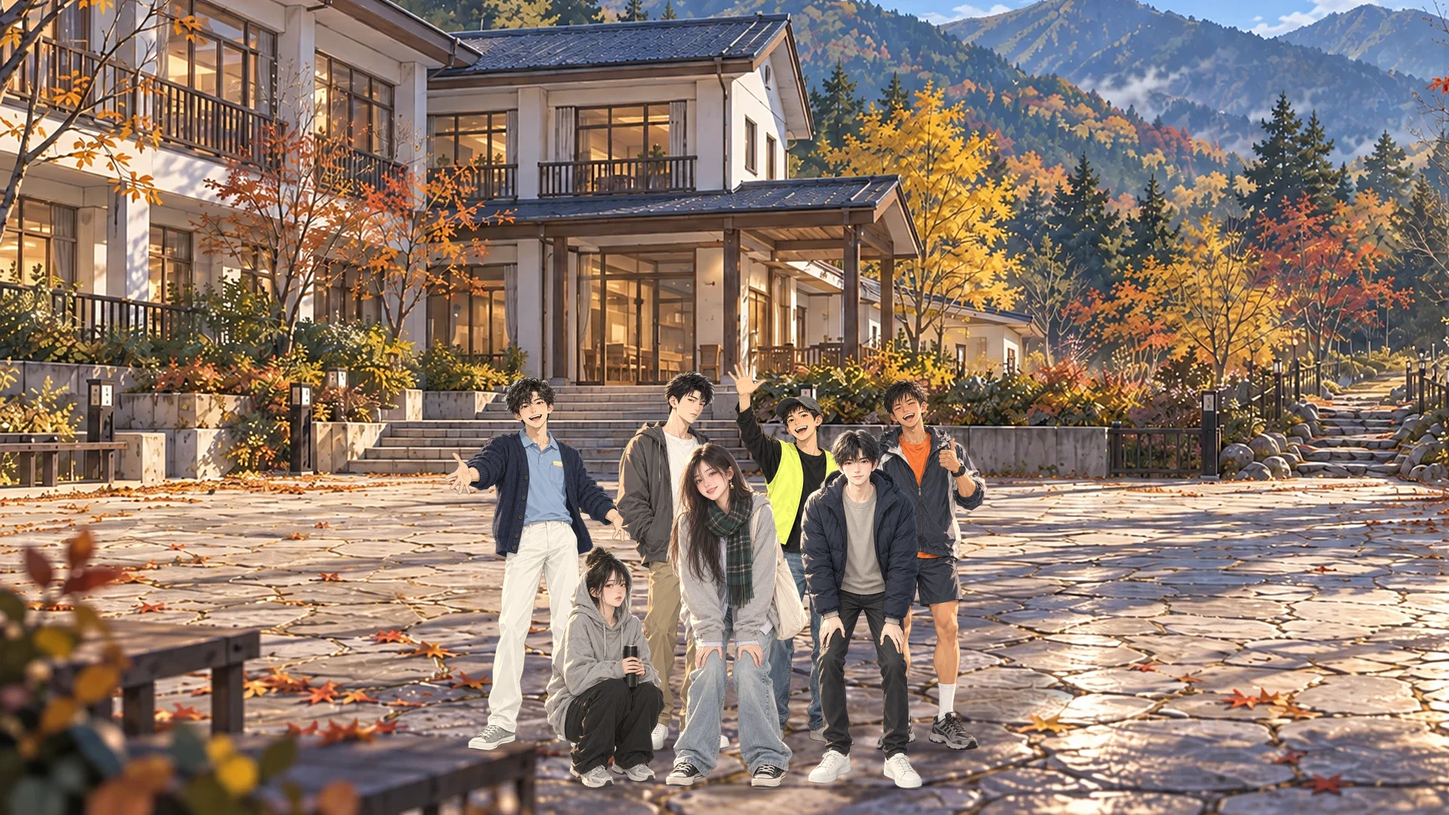
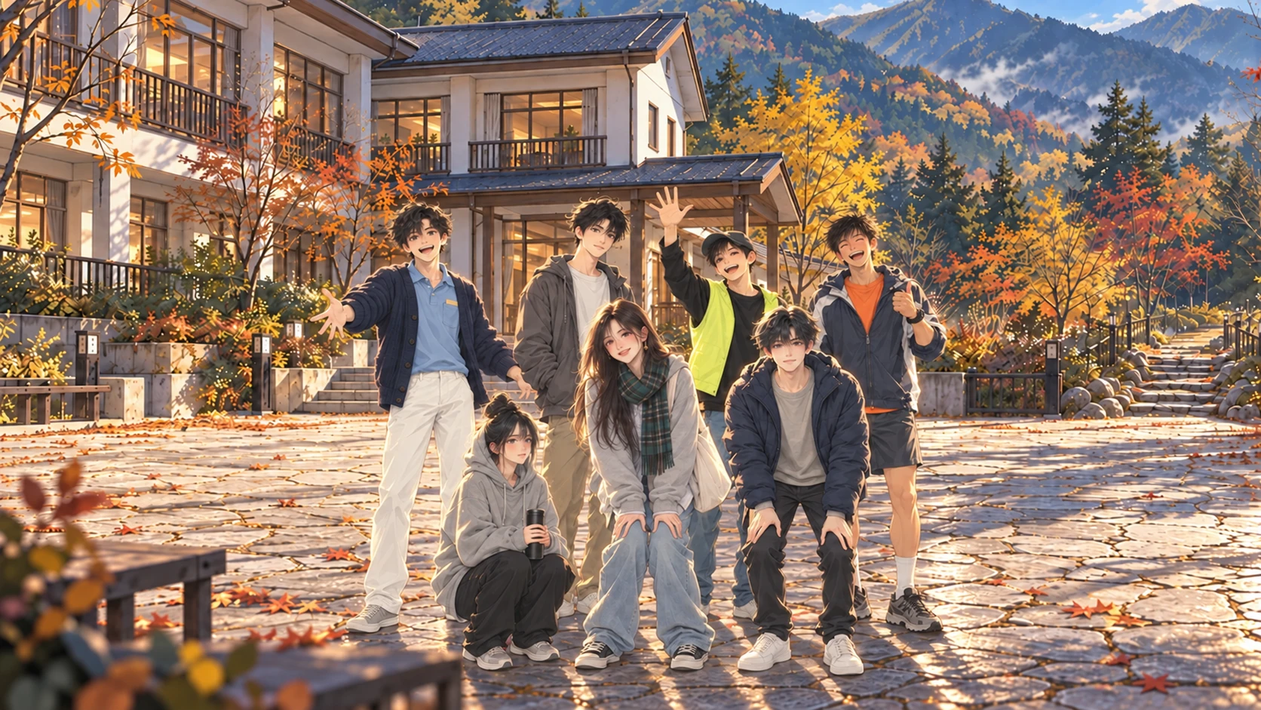
v0 段A 修正：工具誤套的台詞改回、E02 照段A重寫、E01／P1 人工列、魏老師第一堂、宿營 CG 換統一光線版
- 自動套用工具把「（刪；…）」說明和「／」分句當成台詞寫進去（5 處）：照 AA 原則改成旁白或刪除；工具過濾補強（帶說明的刪除、／、建議旁白一律人工）
- ev_y0_e02 照 BB_179 段A 新順序重寫（只講名字和從哪裡來、祐廷「{name}，臺北。」、可昕的名詞、散場旁白、412 三句）
- E01：刪「成功率大概三成」「危險的室友」，②後加旁白「（他好像本來想自己講完。）」；E01_BOXES、P1_SKIP 照 AA_200 7-2
- P1_LINES 刪韋綸、品妤兩句（段A #25 #26）
- 經原第 1 週魏老師順口講邊際效用遞減（AA_200 7-2）；經原 specials 改第 14、15 週（syllabus 16 週制）
- cg_econ_camp 換 BB-B ddae6f9c 統一光線版（1672×941）
- 單元測試 253 項全過（之後改的 e01／p1／e03 個別重跑通過）

Claude-Session: https://claude.ai/code/session_01DvRVNNnivf7da7qqWuGmw6

diff --git a/src/data/events.js b/src/data/events.js
@@ -1492,22 +1492,28 @@ const STORY_EVENTS=[
      用一個經濟學名詞介紹自己，記 E02_WORD（'externality'／'equilibrium'／'invisible_hand'；BB_106 SK08、SK14 讀）。家豪學長、韋綸、唐睿還沒有人物資料，先用名字說話。
      時段（AA-B 定案 A，268d529d）：9/2 週一上午是經濟學原理（照上、不停課），下課以後 12:15～17:00 自動，演完時間到 15:00、人在社科院門口 */
   { id:'ev_y0_e02', stage:'econ', title:'開學典禮與迎新', participants:['kexin'], location:'any', trigger:'auto', term:['Y0S1'], weeks:[1], weekday:[1], time:[12.25,17], once:true, priority:9, background:'dark',
-    dialogue:[ {scene:'社科院・大講堂｜開學典禮',bg:'soc_hall'},{speaker:null,text:'開學典禮在社科院的大講堂。前面坐的人，都穿得比平常整齊一點。'},{speaker:null,text:'典禮結束。門口有個學長舉著牌子：『經濟系新生，這邊。』'},{scene:'社科院・系上的教室｜迎新',bg:'soc_classroom'},   /* 兩句旁白：AA-B 定案（268d529d，AA_154）*/
-      {speaker:'家豪學長',text:'我是宋家豪，大二，今天帶你們這一組。／先輪一圈，講名字、從哪裡來就好。'},{speaker:'韋綸',text:'邱韋綸，台中來的。我到現在還搞不清楚哪一棟是哪一棟。'},
-      {speaker:'econ_pinyu',expression:'neutral',text:'曾品妤。'},{speaker:'唐睿',text:'（刪；只在旁白「一個一個輪下去」裡帶過）'},{speaker:'家豪學長',text:'唐睿，你才講了五秒。'},
-      {speaker:'kexin',expression:'neutral',text:'杜可昕。我是「邊際效用遞減」，早上經原老師講到的。'},{speaker:'kexin',expression:'neutral',text:'第一次見面最好玩，之後越來越普通。'},{speaker:'kexin',expression:'smile',text:'……開玩笑的。我會越來越好玩。'},
+    dialogue:[ {scene:'社科院・大講堂｜開學典禮',bg:'soc_hall'},{speaker:null,text:'開學典禮在社科院的大講堂。你坐在後面，旁邊的人在滑手機。'},{speaker:null,text:'典禮結束。門口有個學長舉著牌子：『經濟系新生，這邊。』'},{scene:'社科院・系上的教室｜迎新',bg:'soc_classroom'},   /* BB_179 段 A E02 重寫（AA_203 2-1：只講名字和從哪裡來，只有可昕用名詞）；旁白：AA_203 #1、AA_200 7-3 散場、BB 建議旁白全部採用（AA-B 01:34）；祐廷「{name}，臺北。」（AA_200 7-2）*/
+      {speaker:'家豪學長',text:'我是宋家豪，大二，今天帶你們這一組。'},{speaker:'家豪學長',text:'先輪一圈，講名字、從哪裡來就好。'},
+      {speaker:'韋綸',text:'邱韋綸，台中來的。我到現在還搞不清楚哪一棟是哪一棟。'},{speaker:'家豪學長',text:'等一下帶你們走一圈。'},
+      {speaker:'econ_pinyu',expression:'neutral',text:'曾品妤。'},{speaker:null,text:'（她講完就坐下了。下一個是你。）'},{speaker:'player',text:'{name}，臺北。'},
+      {speaker:null,text:'（一個一個輪下去。大部分的人講完名字和縣市就坐下。）'},
+      {speaker:'kexin',expression:'neutral',text:'杜可昕。我是「邊際效用遞減」，早上經原老師講到的。'},{speaker:'kexin',expression:'smile',text:'第一次見面最好玩，之後越來越普通。……不過我會越來越好玩啦。'},{speaker:null,text:'（有幾個人笑了。）'},
+      {speaker:'家豪學長',text:'好，差不多了。零食在前面，自己拿。'},{speaker:null,text:'（學長在前面發零食。可昕拿了一包，坐到你旁邊。）'},
+      {speaker:'kexin',expression:'neutral',text:'你剛剛只講名字喔？'},{speaker:'kexin',expression:'smile',text:'不然你也挑一個。'},
       {choice:[{text:'「我是『外部性』。我會影響到你們，但不用付錢。」',set:{E02_WORD:'externality'},goto:'ext'},{text:'「我是『均衡』。……我不知道為什麼。」',set:{E02_WORD:'equilibrium'},goto:'eq'},{text:'「我是『看不見的手』。」',set:{E02_WORD:'invisible_hand'},goto:'hand'}]},
-      {label:'ext'},{speaker:'kexin',expression:'teasing',text:'外部性還沒教欸。'},{goto:'end'},
-      {label:'eq'},{speaker:'kexin',expression:'teasing',text:'好，那你是均衡。'},{goto:'end'},
+      {label:'ext'},{speaker:'kexin',expression:'teasing',text:'外部性還沒教欸。'},{speaker:null,text:'（她翻開課本，在目錄找了一下。）'},{goto:'end'},
+      {label:'eq'},{speaker:'kexin',expression:'teasing',text:'好，那你是均衡。'},{speaker:null,text:'（她把零食撕開，分了你一半。）'},{goto:'end'},
       {label:'hand'},{speaker:'kexin',expression:'teasing',text:'亞當斯密那個。這個我高中有聽過。'},
-      {label:'end'} ],
+      {label:'end'},
+      {speaker:'韋綸',text:'（走過來）欸，{name}，你是 412 的吧？我早上去看過，床架上貼的名字有你。'},{speaker:'韋綸',text:'我也是！我晚上才搬進去。'},{speaker:'唐睿',text:'（從後面探頭）412？那我們同一間。我也是晚上。'},   /* 四人房（AA_208、BB_179 第 8 節）*/
+      {speaker:'家豪學長',text:'要走一圈的，跟我來！'},{speaker:null,text:'（可昕站起來，跟著大家往門口走。）'} ],
     consequences:{meet:['econ_pinyu']},
     after:(G,GM)=>{ if(G.hour%24<15) GM.advance(15-G.hour%24); if(G.zone!=='campus'&&GM.enter) GM.enter('campus',{x:97.0,z:-66.5,yaw:-Math.PI/2}); } },
   /* P2 下課後的一群人（BB_105 第 137 行；AA_154 第 101 行）：Y0S1 第 3～5 週週四，初等會計學下課（普通教學館門口的腳踏車停放區）；第一次（之後的 P2b 另做）。
      選公館＝接 ★E05（同一天）；選別的、今天先回去、沒去＝E05 在 9/20（五）傍晚照自己的觸發（ev_y0_e05 的 auto 條件）。韋綸、唐睿還沒有人物資料，先用名字說話 */
   { id:'ev_y0_p2', stage:'econ', title:'下課後的一群人', participants:['kexin'], location:'any', trigger:'class', afterClass:'acct_y0', term:['Y0S1'], weeks:[3,4,5], background:'blur',
     prereq:{custom:G=>!G.flags.P2_PICK||G.flags.P2_PICK==='home'},   /* 去成一次就不再演；「今天先回去」的玩家下一次會計課下課再演一次（BB_105 P2「那下次！」＝P2b 補上第一次聚會），到第 5 週為止 */
-    dialogue:[ {speaker:'韋綸',text:'走啦！'},{speaker:'econ_pinyu',expression:'neutral',text:'去哪？先說好，我只有一百五。'},{speaker:'唐睿',text:'（刪；建議旁白「唐睿在旁邊講電話，朝你們比了一個 OK。」）'},{speaker:'kexin',expression:'neutral',text:'（牽著腳踏車）你決定。'},
+    dialogue:[ {speaker:'韋綸',text:'走啦！'},{speaker:'econ_pinyu',expression:'neutral',text:'去哪？先說好，我只有一百五。'},{speaker:null,text:'（唐睿在旁邊講電話，朝你們比了一個 OK。）'},{speaker:'kexin',expression:'neutral',text:'（牽著腳踏車）你決定。'},
       {choice:[{text:'公館吃飯',set:{P2_PICK:'gongguan'},goto:'end'},{text:'河濱騎腳踏車',set:{P2_PICK:'river'},goto:'river'},{text:'總圖念書',set:{P2_PICK:'library'},goto:'lib'},{text:'「今天先回去。」',set:{P2_PICK:'home'},goto:'home'}]},
       {label:'river'},{speaker:null,text:'韋綸的鏈子掉了兩次。'},{speaker:'kexin',expression:'smile',text:'你那台要不要拿去修？我的也怪怪的，一起去。'},{goto:'end'},
       {label:'lib'},{speaker:null,text:'唐睿講了四十分鐘的話。'},{speaker:'econ_pinyu',expression:'neutral',text:'今天一頁都沒讀。'},{goto:'end'},
@@ -1534,7 +1540,7 @@ const STORY_EVENTS=[
       {speaker:null,text:'烤肉架是系學會借來的。炭還是黑的。'},
       {speaker:'韋綸',text:'誰要生火？'},
       {speaker:'econ_pinyu',text:'生火的人先吃。'},
-      {speaker:'唐睿',text:'（刪；建議旁白「唐睿已經在分肉了。」，可不加）'},
+      {speaker:null,text:'（唐睿已經在分肉了。）'},
       {choice:[{text:'「阿勳來。」',goto:'f1'},{text:'「韋綸來。」',goto:'f2'},{text:'「我來。」',goto:'f3'}]},
       {label:'f1'},{speaker:null,text:'阿勳擺了三塊炭，劃了一根火柴。火一次就起來了。'},{speaker:'econ_zhengxun',text:'熱力學。'},{speaker:'韋綸',text:'我帶了一整包報紙耶。'},{goto:'meat'},
       {label:'f2'},{speaker:null,text:'火起來的那一秒，韋綸的瀏海也捲起來了。'},{speaker:'韋綸',text:'沒事沒事！……有沒有人聞到頭髮的味道？'},{speaker:'econ_pinyu',text:'有。你先離火遠一點。'},{goto:'meat'},
@@ -1552,7 +1558,7 @@ const STORY_EVENTS=[
      劇社的即興（三個地點）→ 祐廷選社團（Y0_CLUB：guitar／hiking／badminton／none；BB_110 C2 讀它）→ 可昕的一句。沒去：可昕私訊（story3d.js）*/
   { id:'ev_y0_e07', stage:'econ', title:'社團博覽會', participants:['kexin'], location:'campus', near:{x:-3,z:14,r:20}, trigger:'auto', term:['Y0S1'], weeks:[3], weekday:[3,4,5], time:[10,17], once:true, background:'blur',
     dialogue:[ {speaker:'韋綸',text:'（手上已經有六張傳單）我每一攤都要看。'},
-      {speaker:'econ_pinyu',text:'（刪；建議旁白「品妤在看每一攤貼的社費。」）'},
+      {speaker:null,text:'（品妤在看每一攤貼的社費。）'},
       {speaker:'kexin',expression:'smile',text:'（從即興劇社的攤位探頭）你們過來，他們要演一段。'},
       {speaker:'劇社社員',text:'請給我們一個地點！'},
       {speaker:'kexin',expression:'neutral',text:'（看你）你說。'},
@@ -1578,7 +1584,7 @@ const STORY_EVENTS=[
       {choice:[{text:'「雞腿的效用比較高。」',goto:'b1'},{text:'「下次換滷肉飯。」',goto:'b2'},{text:'「妳吃什麼？」',goto:'b3'}]},
       {label:'b1'},{speaker:'econ_pinyu',text:'好啦，你吃得開心就好。'},{goto:'end'},
       {label:'b2'},{speaker:'econ_pinyu',text:'不用為了我改。我只是說說。'},{speaker:'kexin',text:'她會一直說。'},{goto:'end'},
-      {label:'b3'},{speaker:'econ_pinyu',text:'我自己帶便當。'},{speaker:'kexin',text:'（刪；改成建議旁白：可昕夾走一塊蛋）'},{speaker:'econ_pinyu',text:'……邊際成本是零。'},
+      {label:'b3'},{speaker:'econ_pinyu',text:'我自己帶便當。'},{speaker:null,text:'（她打開便當盒。可昕伸筷子夾走一塊蛋，品妤沒說話，把便當往自己那邊移了一點。）'},{speaker:'econ_pinyu',text:'……邊際成本是零。'},
       {label:'end'} ],
     after:(G,GM)=>{ GM.advance(0.75); GM.money&&GM.money(-95); } },
   /* T0a 泡麵之夜（BB_110 第 2 節；AA_154 第 93 行、A2）：經濟系大一上第 5 週颱風假（2024-09-30 週一，calendar.js 的 TYPHOON），白天到晚上在宿舍房間、阿勳在。

diff --git a/tests/v0_e01_unit.js b/tests/v0_e01_unit.js
@@ -46,7 +46,7 @@ const XUN='econ_zhengxun';
     check('2. 媽媽的訊息「到了要記得吃晚餐。」（演完也寫進手機的對話串）＋「你已經吃過了。媽媽也知道。」',L[4]==='媽媽（手機）：到了要記得吃晚餐。'&&L[5]==='你已經吃過了。媽媽也知道。'&&(G.msgs||[]).some(m=>m.th==='p:mom'&&m.text==='到了要記得吃晚餐。'),JSON.stringify(L.slice(4,6)));
     check('2. 阿勳進門、自我介紹（盧正勳，經濟系；叫起來像在點名）；祐廷：我叫{name}',L.includes('阿勳：你好。盧正勳，經濟系。')&&L.includes('阿勳：叫我阿勳就好。')&&L.some(t=>t==='祐廷：我叫{name}。也是經濟系。'),JSON.stringify(L.slice(5,9)));
     check('2. 冷笑話選項「為什麼？」「因為預算限制？」',opts[0].join()==='為什麼？,因為預算限制？');
-    check('2. 「為什麼？」：邊際效用是零 → 等你笑 → 成功率大概三成（BB-B 改的那句）',L.includes('阿勳：因為第四個箱子的效用，比搬它的成本低。')&&L.includes('他停了一下，等你笑。')&&L.includes('阿勳：……這是我今天想的。成功率大概三成。'));
+    check('2. 「為什麼？」：效用比成本低 → 等你笑 → 直接接「被子在最下面那一箱」（BB_179 段A #3 刪「成功率大概三成」）',L.includes('阿勳：因為第四個箱子的效用，比搬它的成本低。')&&L[L.indexOf('他停了一下，等你笑。')+1]==='阿勳：被子在最下面那一箱，對不對。'&&!L.some(t=>t.includes('成功率')));
     check('2. 阿勳熟悉 +2（第一次見面以外，事件數值）、認識了',SOCIAL.rel(XUN).fam>=2&&SOCIAL.stage(XUN)!=='STRANGER',JSON.stringify(SOCIAL.rel(XUN)));
     check('2. 22:00：「十點了。被子鋪好了，地上還有兩個箱子沒拆。」選項「先睡。明天再拆。」「今天拆完。」',L.includes('十點了。被子鋪好了，地上還有兩個箱子沒拆。')&&opts[1].join()==='先睡。明天再拆。,今天拆完。');
     check('2. 先睡：E01_NIGHT sleep、E01_DONE；旁白「燈還沒關，你就睡著了」',G.flags.E01_NIGHT==='sleep'&&G.flags.E01_DONE===true&&L.includes('你把兩個箱子推到書桌旁邊的地上。燈還沒關，你就睡著了。'));
@@ -54,11 +54,11 @@ const XUN='econ_zhengxun';
     check('3. 起床：阿勳「你昨天十點就睡了。」「經原九點十分，在博雅。」',L.includes('阿勳：你昨天十點就睡了。')&&L.includes('阿勳：經原九點十分，在博雅。')&&G.flags.E01_MORNING===true);
     check('3. 先睡的那晚不算 01:00 以後才睡',!(G.daily&&G.daily.lateNight===G.day));
     said=[]; G.hour=18; G.zone='dorm'; STORY.y0Tick(GM); await new Promise(r=>setTimeout(r,10));
-    check('4. 先睡的玩家 9/2 晚上回房間：「你終於把箱子拆完了。阿勳說，比他預測的早。」一次，接著「（韋綸和唐睿搬進來了。…）」（AA_208 第 3 節）',lines().includes('你終於把箱子拆完了。阿勳說，比他預測的早。')&&lines().indexOf('（韋綸和唐睿搬進來了。韋綸的東西比三個人加起來還多。）')===lines().indexOf('你終於把箱子拆完了。阿勳說，比他預測的早。')+1&&G.flags.E01_BOXES===true);
+    check('4. 先睡的玩家 9/2 晚上回房間：「你終於把箱子拆完了。阿勳幫你把空箱子壓扁，拿去樓下回收。」一次，接著「（韋綸和唐睿搬進來了。…）」（AA_208 第 3 節）',lines().includes('你終於把箱子拆完了。阿勳幫你把空箱子壓扁，拿去樓下回收。')&&lines().indexOf('（韋綸和唐睿搬進來了。韋綸的東西比三個人加起來還多。）')===lines().indexOf('你終於把箱子拆完了。阿勳幫你把空箱子壓扁，拿去樓下回收。')+1&&G.flags.E01_BOXES===true);
     said=[]; STORY.y0Tick(GM); await new Promise(r=>setTimeout(r,10)); check('4. 不再說第二次',!lines().length); }
   // 拆完
   { const L=await start(['預算限制','拆完']);
-    check('5. 「因為預算限制？」：你搶了我的笑點 → 危險的室友',L.includes('阿勳：……差不多。')&&L.includes('阿勳：好。你是一個危險的室友。我會小心。'));
+    check('5. 「因為預算限制？」：……差不多 → 旁白「他好像本來想自己講完」（段A #5 刪「危險的室友」）',L.includes('阿勳：……差不多。')&&L.includes('（他好像本來想自己講完。）')&&!L.some(t=>t.includes('危險的室友')));
     check('5. 拆完：三句旁白（阿勳已經躺下了——BB-B 改的那句；桌燈照著你；兩點）',L.includes('你拆到第三箱的時候，阿勳已經躺下了。')&&L.includes('他的桌燈沒有關。他把燈轉過來，照著你那一邊。')&&L.includes('最後一本書放上書架，是兩點。'));
     check('5. 拆完：E01_NIGHT unpack、阿勳自在 +1',G.flags.E01_NIGHT==='unpack'&&SOCIAL.rel(XUN).comf>=1,JSON.stringify(SOCIAL.rel(XUN)));
     check('5. 隔天 07:40 起床；那晚算「01:00 以後才睡」',G.day===Y0+1&&Math.abs(G.hour-(7+40/60))<1e-6&&G.daily&&G.daily.lateNight===G.day,G.hour+' '+JSON.stringify(G.daily));

diff --git a/tests/v0_p1_unit.js b/tests/v0_p1_unit.js
@@ -18,25 +18,25 @@ function itemFor(week){ const CID='acct_y0'; for(let d=-400;d<0;d++){ const t=CA
   check('0. 找到會計第 1、2、3 週；第 1 週是 9/5（四）13:20',!!w1&&!!w2&&!!w3&&d1.m===9&&d1.d===5&&Math.abs(w1.t0-(13+20/60))<0.01,JSON.stringify([d1,w1&&w1.t0]));
   const W1=SYLLABUS.courses.acct_y0.find(q=>q.w===1), W2=SYLLABUS.courses.acct_y0.find(q=>q.w===2);
   const seats='choose:（坐在阿勳旁邊） / （坐前排） / （坐靠窗）'   /* 按鈕字照 AA_154 A51 */, opts='choose:'+W1.call.options.map(o=>'「'+o+'」').join(' / ');
-  const P1=['要看租約吧。','負債！我室友打呼。','你的室友是費用。'];
+  const P1=['要看租約吧。'];   /* BB_179 段A #25 #26：韋綸、品妤兩句刪 */
   // 1. 第 1 週準時
   { const G=mkG(w1.day,w1.t0-0.05), GM=mkGM(G,1); GM.choose=async o=>{ GM.log.push('choose:'+o.map(q=>q.t).join(' / ')); return 2; }; await CLS.attend(GM,w1,{inScene:true}); const L=GM.log;
     const iS=L.indexOf(seats), iT=L.findIndex(t=>t.endsWith(W1.line)), iC=L.indexOf(opts);
     check('1. 先選坐哪裡（阿勳旁邊／前排／靠窗）→ 老師「今天第一題。你的宿舍，是資產還是負債？」',iS>=0&&iT>iS,JSON.stringify(L.slice(0,4)));
-    check('1. 阿勳、韋綸、品妤三句＋遠處的可昕（BB_105 2-3 原文、照順序）',P1.every((t,k)=>L[iT+1+k]&&L[iT+1+k].endsWith('「'+t+'」'))&&L[iT+4]==='（遠處，可昕舉手：「住得很開心的話，算資產嗎？」有幾個人笑了。）',JSON.stringify(L.slice(iT,iT+6)));
-    check('1. 被點到：三個回答＋共用收尾',iC>iT+4&&W1.call.follow.every(f=>L.some(t=>t.endsWith(f))));
+    check('1. 阿勳一句＋遠處的可昕（BB_179 段A：韋綸、品妤兩句刪）',P1.every((t,k)=>L[iT+1+k]&&L[iT+1+k].endsWith('「'+t+'」'))&&L[iT+2]==='（遠處，可昕舉手：「住得很開心的話，算資產嗎？」有幾個人笑了。）'&&!L.some(t=>t.includes('我室友打呼')||t.includes('你的室友是費用')),JSON.stringify(L.slice(iT,iT+4)));
+    check('1. 被點到：三個回答＋共用收尾',iC>iT+2&&W1.call.follow.every(f=>L.some(t=>t.endsWith(f))));
     check('1. Y0_P1_SEAT＝window（選第三個）、Y0_P1_DONE',G.flags.Y0_P1_SEAT==='window'&&G.flags.Y0_P1_DONE===true,JSON.stringify(G.flags));
     G.day=w2.day; G.hour=w2.t0-0.05; const GM2=mkGM(G,0); await CLS.attend(GM2,w2,{inScene:true});
-    check('2. 上過以後：第 2 週照第 2 週（會計恆等式），沒有選座位、沒有四句',GM2.log.some(t=>t.endsWith(W2.line))&&!GM2.log.includes(seats)&&!GM2.log.some(t=>t.includes('我室友打呼')),JSON.stringify(GM2.log.slice(0,4)));
+    check('2. 上過以後：第 2 週照第 2 週（會計恆等式），沒有選座位、沒有那兩句',GM2.log.some(t=>t.endsWith(W2.line))&&!GM2.log.includes(seats)&&!GM2.log.some(t=>t.includes('要看租約吧')),JSON.stringify(GM2.log.slice(0,4)));
     check('2. 座位不會被改掉',G.flags.Y0_P1_SEAT==='window'); }
   // 3. 第 1 週沒去，第 3 週第一次出席
   { const G=mkG(w3.day,w3.t0-0.05), GM=mkGM(G,0); check('3. 第 1 週沒去：第 3 週 p1Due',CLS.p1Due(G,w3)===true); await CLS.attend(GM,w3,{inScene:true});
-    check('3. 第 3 週第一次出席：上的是第 1 週那一堂（選座位、宿舍那一題、四句）',GM.log.includes(seats)&&GM.log.some(t=>t.endsWith(W1.line))&&GM.log.some(t=>t.includes('我室友打呼')),JSON.stringify(GM.log.slice(0,4)));
+    check('3. 第 3 週第一次出席：上的是第 1 週那一堂（選座位、宿舍那一題、阿勳和可昕）',GM.log.includes(seats)&&GM.log.some(t=>t.endsWith(W1.line))&&GM.log.some(t=>t.includes('要看租約吧')),JSON.stringify(GM.log.slice(0,4)));
     check('3. Y0_P1_SEAT＝xun（選第一個）',G.flags.Y0_P1_SEAT==='xun'); }
   // 4. 遲到超過 15 分鐘＝略過
   { const G=mkG(w1.day,w1.t0+0.4), GM=mkGM(G,0); await CLS.attend(GM,w1,{inScene:true,late:true}); const L=GM.log;
-    const skip=L.includes('會計的第一堂。借方在左，貸方在右。阿勳的筆記，比你的整齊。');
-    if(skip){ check('4. 遲到超過 15 分鐘才進去：一句旁白「會計的第一堂。……阿勳的筆記，比你的整齊。」、沒有選座位和四句',!L.includes(seats)&&!L.some(t=>t.includes('我室友打呼')),JSON.stringify(L));
+    const skip=L.includes('黑板已經寫滿了。你只來得及抄最後兩行。');   /* AA_200 7-2 */
+    if(skip){ check('4. 遲到超過 15 分鐘才進去：一句旁白「黑板已經寫滿了。你只來得及抄最後兩行。」、沒有選座位和那兩句',!L.includes(seats)&&!L.some(t=>t.includes('要看租約吧')),JSON.stringify(L));
       check('4. 略過：Y0_P1_SEAT 不記、P1 記成做過（一次）',G.flags.Y0_P1_SEAT==null&&G.flags.Y0_P1_DONE==='skip'); }
     else console.log('SKIP 4. 這個測試環境進不了「遲到超過 15 分鐘」那一條（S.attend 的 lateAbs 要玩家在選單選）：'+JSON.stringify(L.slice(0,3))); }
   // 5. 其他課不受影響

diff --git a/tests/v0_e02_unit.js b/tests/v0_e02_unit.js
@@ -29,10 +29,11 @@ const ev=id=>STORY_EVENTS.find(e=>e.id===id);
   const D=STORY.dayOfKey('2024-09-02'); check('1. 2024-09-02 是週一、Y0S1 第 1 週',CALENDAR.dateOf(D).wd===1&&CALENDAR.termOf(D).id==='Y0S1'&&CALENDAR.termOf(D).week===1);
   const can=(day,h,stage)=>{ fresh(day,h,'dorm'); G.stage=stage||'econ'; return EVENTS.check(e); };
   check('2. 經濟系 9/2 13:00 會演；上課時間 10:00、17:30、9/3、法律系同一天都不會',can(D,13)&&!can(D,10)&&!can(D,17.5)&&!can(D+1,13)&&!can(D,13,'law'));
-  const BB=['開學典禮在社科院的大講堂。前面坐的人，都穿得比平常整齊一點。','典禮結束。門口有個學長舉著牌子：『經濟系新生，這邊。』','我是宋家豪，大二，今天帶你們這一組。／先輪一圈，講名字、從哪裡來就好。','邱韋綸，台中來的。我到現在還搞不清楚哪一棟是哪一棟。','曾品妤。','（刪；只在旁白「一個一個輪下去」裡帶過）','唐睿，你才講了五秒。','杜可昕。我是「邊際效用遞減」，早上經原老師講到的。','第一次見面最好玩，之後越來越普通。','……開玩笑的。我會越來越好玩。'];
-  for(const [pick,word,reply] of [['外部性','externality','外部性還沒教欸。'],['均衡','equilibrium','好，那你是均衡。'],['看不見的手','invisible_hand','亞當斯密那個。這個我高中有聽過。']]){
-    fresh(D,12.4,'dorm'); G.stage='econ'; picks=[pick]; await EVENTS.run(e); const L=lines();
-    check('3. 選「'+pick+'」：AA 的兩句旁白（268d529d）＋BB_104 原文、可昕回「'+reply+'」、E02_WORD＝'+word+'、時間到 15:00、到社科院門口',JSON.stringify(L.slice(0,10))===JSON.stringify(BB)&&L[10]===reply&&L.length===11&&G.flags.E02_WORD===word&&Math.abs(G.hour-15)<1e-6&&G.zone==='campus',JSON.stringify([L.slice(-2),G.flags.E02_WORD,G.hour,G.zone]));
+  const BB=['開學典禮在社科院的大講堂。你坐在後面，旁邊的人在滑手機。','典禮結束。門口有個學長舉著牌子：『經濟系新生，這邊。』','我是宋家豪，大二，今天帶你們這一組。','先輪一圈，講名字、從哪裡來就好。','邱韋綸，台中來的。我到現在還搞不清楚哪一棟是哪一棟。','等一下帶你們走一圈。','曾品妤。','（她講完就坐下了。下一個是你。）','{name}，臺北。','（一個一個輪下去。大部分的人講完名字和縣市就坐下。）','杜可昕。我是「邊際效用遞減」，早上經原老師講到的。','第一次見面最好玩，之後越來越普通。……不過我會越來越好玩啦。','（有幾個人笑了。）','好，差不多了。零食在前面，自己拿。','（學長在前面發零食。可昕拿了一包，坐到你旁邊。）','你剛剛只講名字喔？','不然你也挑一個。'];   /* BB_179 段 A E02 重寫（AA_203 2-1；AA_200 7-2、7-3；建議旁白全部採用）*/
+  const TAIL=['（走過來）欸，{name}，你是 412 的吧？我早上去看過，床架上貼的名字有你。','我也是！我晚上才搬進去。','（從後面探頭）412？那我們同一間。我也是晚上。','要走一圈的，跟我來！','（可昕站起來，跟著大家往門口走。）'];
+  for(const [pick,word,reply,extra] of [['外部性','externality','外部性還沒教欸。','（她翻開課本，在目錄找了一下。）'],['均衡','equilibrium','好，那你是均衡。','（她把零食撕開，分了你一半。）'],['看不見的手','invisible_hand','亞當斯密那個。這個我高中有聽過。',null]]){
+    fresh(D,12.4,'dorm'); G.stage='econ'; picks=[pick]; await EVENTS.run(e); const L=lines(), nm=a=>a.map(t=>t.replace(/\{name\}/g,'祐廷'));
+    check('3. 選「'+pick+'」：BB_179 段 A 新順序（只講名字和從哪裡來、祐廷「{name}，臺北。」、只有可昕用名詞、散場旁白）、可昕回「'+reply+'」、E02_WORD＝'+word+'、時間到 15:00、到社科院門口',JSON.stringify(L.slice(0,BB.length))===JSON.stringify(nm(BB))&&L[BB.length]===reply&&(extra?L[BB.length+1]===extra:true)&&JSON.stringify(L.slice(-TAIL.length))===JSON.stringify(nm(TAIL))&&L.length===BB.length+1+(extra?1:0)+TAIL.length&&G.flags.E02_WORD===word&&Math.abs(G.hour-15)<1e-6&&G.zone==='campus',JSON.stringify([L.slice(-2),G.flags.E02_WORD,G.hour,G.zone]));
     check('3. 認識可昕、品妤（FIRST_MET）',SOCIAL.has('kexin','FIRST_MET')&&SOCIAL.has('econ_pinyu','FIRST_MET')); }
   { const sc=e.dialogue.filter(l=>l.scene!==undefined); check('4. 兩個場景：社科院大講堂（soc_hall，開學典禮）→ 系上的教室（soc_classroom，迎新）；兩張背景都有圖',sc.length===2&&sc[0].bg==='soc_hall'&&sc[1].bg==='soc_classroom'&&fs.existsSync(path.join(ROOT,'assets/bg/soc_hall.webp'))&&fs.existsSync(path.join(ROOT,'assets/bg/soc_classroom.webp'))); }
   console.log(fails?('FAILED '+fails):'ALL PASS'); process.exit(fails?1:0);

diff --git a/tests/v0_e07_unit.js b/tests/v0_e07_unit.js
@@ -32,7 +32,7 @@ const TH=th=>PHONE.thread(G,th).map(m=>m.text);
   check('1. E07：9/18（三）～9/20（五）10:00～17:00；9/17、9/21、9/18 09:30、17:30 不行；法律系不行',ck(e7,D18,11)&&ck(e7,D20,16.5)&&!ck(e7,D18-1,11)&&!ck(e7,D21,11)&&!ck(e7,D18,9.5)&&!ck(e7,D18,17.5)&&!(()=>{ fresh(D18,11,'campus',{},'law'); return EVENTS.check(e7); })());
   check('1. E07 要走到椰林的攤位那一排（near）',!!e7.near&&e7.near.r>=10);
   { fresh(D18,11,'campus'); picks=['經濟系的教室','羽球社']; await EVENTS.run(e7); const L=said.map(x=>x.t);
-    check('1. E07 原文：韋綸六張傳單、品妤四十八小時、可昕探頭、劇社社員、「你說。」',L[0]==='（手上已經有六張傳單）我每一攤都要看。'&&L[1]==='（刪；建議旁白「品妤在看每一攤貼的社費。」）'&&L[4]==='（看你）你說。',JSON.stringify(L.slice(0,5)));
+    check('1. E07 原文：韋綸六張傳單、品妤四十八小時、可昕探頭、劇社社員、「你說。」',L[0]==='（手上已經有六張傳單）我每一攤都要看。'&&L[1]==='（品妤在看每一攤貼的社費。）'&&L[4]==='（看你）你說。',JSON.stringify(L.slice(0,5)));
     check('1. 地點「經濟系的教室。」→「好，我們是兩條供給曲線。」全場安靜',L.includes('好，我們是兩條供給曲線。')&&L.includes('全場安靜。')&&!L.includes('一個社員演一隻鵝，追著另一個人跑。'));
     check('1. 選羽球社：Y0_CLUB＝badminton、可昕「羽球社的人都很早起。你可以嗎？」',G.flags.Y0_CLUB==='badminton'&&L[L.length-1]==='羽球社的人都很早起。你可以嗎？',L[L.length-1]);
     check('1. 每句 40 字以內',L.every(t=>t.length<=40));
@@ -46,7 +46,7 @@ const TH=th=>PHONE.thread(G,th).map(m=>m.text);
   check('3. E09：第 4 週週一～週四 12:10～13:15；週五（9/27 教師節連假）、第 5 週、11:30 不行',ck(e9,D23,12.3)&&ck(e9,D23+3,13)&&!ck(e9,D27,12.3)&&!ck(e9,D23+7,12.3)&&!ck(e9,D23,11.5));
   { fresh(D23,12.3,'campus'); picks=['妳吃什麼']; const m0=G.money; await EVENTS.run(e9); const L=said.map(x=>x.t);
     check('3. E09 原文：九十五元、五十五、阿勳「……四十元。」、可昕',L[0]==='（看你的餐盤）雞腿便當加紅茶，九十五元。'&&L[2]==='……四十元。'&&L[3]==='還有放棄了跟我們吃一樣的東西。',JSON.stringify(L.slice(0,4)));
-    check('3. 「妳吃什麼？」→ 零元、她媽媽做的、邊際成本是零',JSON.stringify(L.slice(-3))===JSON.stringify(['我自己帶便當。','（刪；改成建議旁白：可昕夾走一塊蛋）','……邊際成本是零。']),JSON.stringify(L.slice(-3))); }
+    check('3. 「妳吃什麼？」→ 零元、她媽媽做的、邊際成本是零',JSON.stringify(L.slice(-3))===JSON.stringify(['我自己帶便當。','（她打開便當盒。可昕伸筷子夾走一塊蛋，品妤沒說話，把便當往自己那邊移了一點。）','……邊際成本是零。']),JSON.stringify(L.slice(-3))); }
   // E04（課堂）
   { const itemFor=week=>{ for(let d=-400;d<0;d++){ const t=CALENDAR.termOf(d); if(!t||t.id!=='Y0S1'||t.week!==week) continue; const it=CLS.dayItems({day:d,hour:8,stage:'econ',flags:{}},d).find(x=>x.c.id==='calc_y0s1'&&!x.exam); if(it) return it; } return null; };
     const w2=itemFor(2), w3=itemFor(3); check('4. 微積分第 2 週是 9/11（三）',!!w2&&w2.day===D11);

diff --git a/src/classes3d.js b/src/classes3d.js
@@ -153,8 +153,10 @@ const CLS=(function(){
      遲到超過 15 分鐘才進去＝略過：一句旁白、不記座位（BB-B 2026-10-16 補的那一句；「可跳過」的意思等 AA-B 確認）*/
   S.p1Due=(G,it)=>!!(it&&it.c&&it.c.id==='acct_y0'&&!it.exam&&!(G.flags&&G.flags.Y0_P1_DONE));
   S.P1_SEATS=[['xun','（坐在阿勳旁邊）'],['front','（坐前排）'],['window','（坐靠窗）']];   /* 按鈕字照 AA_154 A51 Q13 */
-  S.P1_LINES=[()=>(typeof SOCIAL!=='undefined'&&SOCIAL.displayName?SOCIAL.displayName('econ_zhengxun'):'阿勳')+'：「要看租約吧。」','韋綸：「負債！我室友打呼。」',()=>(typeof SOCIAL!=='undefined'&&SOCIAL.displayName?SOCIAL.displayName('econ_pinyu'):'品妤')+'：「你的室友是費用。」','（遠處，可昕舉手：「住得很開心的話，算資產嗎？」有幾個人笑了。）'];
-  S.P1_SKIP='會計的第一堂。借方在左，貸方在右。阿勳的筆記，比你的整齊。';
+  /* BB_179 段A #25 #26：韋綸、品妤兩句刪（一場只留一兩個人）*/
+  S.P1_LINES=[()=>(typeof SOCIAL!=='undefined'&&SOCIAL.displayName?SOCIAL.displayName('econ_zhengxun'):'阿勳')+'：「要看租約吧。」','（遠處，可昕舉手：「住得很開心的話，算資產嗎？」有幾個人笑了。）'];
+  S.ECON_W1_MU='第一口珍奶最好喝，第五口就普通了。這叫邊際效用遞減。期中會考。';
+  S.P1_SKIP='黑板已經寫滿了。你只來得及抄最後兩行。';   /* AA_200 7-2（BB_179 段A 文末 4）*/
   /* E04 微積分初體驗（BB_104 8b-1；AA_154 第 98 行）：Y0S1 第 2 週週三上午的微積分，被叫上台寫一題極限。可以錯過（沒去就沒有這一場，之後不提）；遲到超過 15 分鐘也沒有。記憶：無 */
   S.e04Due=(G,it)=>!!(it&&it.c&&it.c.id==='calc_y0s1'&&!it.exam&&it.week===2&&!(G.flags&&G.flags.E04_DONE));
   S.e04=async function(GM){ const G=GM.G; G.flags=G.flags||{}; G.flags.E04_DONE=true; const XN=()=>typeof SOCIAL!=='undefined'&&SOCIAL.displayName?SOCIAL.displayName('econ_zhengxun'):'阿勳';
@@ -240,6 +242,7 @@ const CLS=(function(){
         else {
         if(p1){ const k=await GM.choose(S.P1_SEATS.map(q=>({t:q[1]}))); G.flags=G.flags||{}; G.flags.Y0_P1_SEAT=(S.P1_SEATS[k]||S.P1_SEATS[0])[0]; }   /* 坐哪裡（法律系 P4c 的旁白讀它）*/
         await GM.say(prof||null,(prof?'':(ct.prof||S.profName(c))+'：')+ct.line);
+        if(c.id==='econ_principles_y0'&&!e03&&it.week===1&&!/邊際效用遞減/.test(ct.line+(ct.react||''))) await GM.say(prof||null,(prof?'':(ct.prof||S.profName(c))+'：')+S.ECON_W1_MU);   /* AA_200 7-2：魏老師第一堂順口講（可昕下午迎新用）；之後企劃的 syllabus 有這句就不重複 */
         for(const r of (ct.recall||[])) if(!r.after||r.after==='line'){ const t=S.recallText(G,r); if(t) await GM.say(null,t); }   /* 週層級的回想（v2 C15：憲法二第 12 週，聽過 B4 演講的玩家多一句旁白）；條件不到不說 */
         if(p1){ for(const l of S.P1_LINES) await GM.say(null,typeof l==='function'?l():l); } else if(ct.react) await GM.say(null,ct.react);
         if(S.e04Due(G,it)) await S.e04(GM);   /* E04 微積分初體驗（BB_104 8b-1）：第 2 週那一堂才有，沒去就沒有 */   /* P1：BB_105 2-3 的四句（阿勳、韋綸、品妤、遠處的可昕）*/

diff --git a/src/story3d.js b/src/story3d.js
@@ -148,8 +148,8 @@ const STORY = (function(){
       await GM.say(null,'他把臉盆放好，看了你的紙箱第二眼。');
       await GM.say(who,'你知道為什麼經濟系的人搬家，都只帶三個箱子嗎？');
       const i=await GM.choose([{t:'為什麼？'},{t:'因為預算限制？'}]);
-      if(i===0){ await GM.say(who,'因為第四個箱子的效用，比搬它的成本低。'); await GM.say(null,'他停了一下，等你笑。'); await GM.say(who,'……這是我今天想的。成功率大概三成。'); }
-      else { await GM.say(who,'……差不多。'); await GM.say(who,'好。你是一個危險的室友。我會小心。'); }
+      if(i===0){ await GM.say(who,'因為第四個箱子的效用，比搬它的成本低。'); await GM.say(null,'他停了一下，等你笑。'); }
+      else { await GM.say(who,'……差不多。'); await GM.say(null,'（他好像本來想自己講完。）'); }   /* BB_179 段A #3 #5（AA_203 §4）；建議旁白採用 */
       if(typeof SOCIAL!=='undefined'&&SOCIAL.adjust) SOCIAL.adjust(XUN,{fam:2});   /* 兩個選項一樣（不記旗標）*/
       await GM.say(who,'被子在最下面那一箱，對不對。'); await GM.say(null,'他幫你把上面兩箱搬到地上，然後回去自己的桌子，戴上耳機。');
       await GM.fade(true); GM.advance(Math.max(0,22-G.hour)); { const m=GM.npc[XUN]; if(m){ const st={x:1.8,z:2.2,yaw:Math.PI}; GM.sitAt(m,st); m.seat=st; m.pose=m.idlePose='sit'; m.frozen=true; } } await GM.fade(false);   /* 時間跳到 22:00（不用旁白說）*/
@@ -174,7 +174,7 @@ const STORY = (function(){
     if(G.day===d1&&!F.E01_DONE){ y0FirstNight(GM); return true; }
     if(G.day===d1+1&&F.E01_NIGHT&&!F.E01_MORNING&&h(G)<12){ y0Morning(GM); return true; }
     if(F.E01_NIGHT&&!F.E01_BOXES&&!F.E412_MOVEIN&&(G.day>d1+1||(G.day===d1+1&&h(G)>=17))){ const box=F.E01_NIGHT==='sleep'; F.E01_BOXES=true; F.E412_MOVEIN=true; if(box) v0Box(GM,'none'); y0Busy=true; GM.sceneBegin();   /* 先睡的玩家：箱子拆完那一句；所有人：韋綸、唐睿 9/2 迎新以後搬進來（AA_208 第 3 節）*/
-      (async()=>{ if(box) await GM.say(null,'你終於把箱子拆完了。阿勳說，比他預測的早。'); await GM.say(null,'（韋綸和唐睿搬進來了。韋綸的東西比三個人加起來還多。）'); })().finally(()=>{ GM.sceneEnd(); y0Busy=false; }); return true; }
+      (async()=>{ if(box) await GM.say(null,'你終於把箱子拆完了。阿勳幫你把空箱子壓扁，拿去樓下回收。'); await GM.say(null,'（韋綸和唐睿搬進來了。韋綸的東西比三個人加起來還多。）'); })().finally(()=>{ GM.sceneEnd(); y0Busy=false; }); return true; }
     return false; };
   S.y0FirstNight=y0FirstNight; S.y0Morning=y0Morning;
   // ---------- 日程與路人 ----------

diff --git a/tests/v0_e05_unit.js b/tests/v0_e05_unit.js
@@ -33,7 +33,7 @@ const settle=async()=>{ for(let i=0;i<50;i++){ await new Promise(r=>setTimeout(r
   check('2. P2：9/19（四，Y0S1 第 3 週）會計課下課後可以；第 6 週不行；法律系不行',ck(p2,D19,15.2)&&!ck(p2,D19+21,15.2)&&!(()=>{ fresh(D19,15.2,'campus'); G.stage='law'; return EVENTS.check(p2); })());
   check('2. E05 自己的觸發：9/20（五）17:00～19:30；9/19、9/20 16:30 不行',ck(e5,D20,17.5)&&!ck(e5,D19,17.5)&&!ck(e5,D20,16.5));
   { fresh(D19,15.2,'campus'); G.stage='econ'; picks=['公館','要我載妳嗎']; await EVENTS.run(p2); await settle(); const L=lines();
-    check('3. P2 原文四句（韋綸、品妤、唐睿、可昕）→ 選公館 → 接 E05：鏈子掉了、「要我載妳嗎？」三句、最後吃到飽那句；E05_OPEN carry、E05_DAY',JSON.stringify(L.slice(0,4))===JSON.stringify(['走啦！','去哪？先說好，我只有一百五。','（刪；建議旁白「唐睿在旁邊講電話，朝你們比了一個 OK。」）','（牽著腳踏車）你決定。'])&&L.includes('（可昕的腳踏車鏈子掉了，她蹲在路邊研究。）')&&L.includes('……而且雙載違規。我自己牽。你陪我走。')&&L[L.length-1]==='品妤挑了一家一百二十元吃到飽的。阿勳吃了四碗白飯。'&&G.flags.E05_OPEN==='carry'&&G.flags.E05_DAY===D19,JSON.stringify(L.slice(4)));
+    check('3. P2 原文四句（韋綸、品妤、唐睿、可昕）→ 選公館 → 接 E05：鏈子掉了、「要我載妳嗎？」三句、最後吃到飽那句；E05_OPEN carry、E05_DAY',JSON.stringify(L.slice(0,4))===JSON.stringify(['走啦！','去哪？先說好，我只有一百五。','（唐睿在旁邊講電話，朝你們比了一個 OK。）','（牽著腳踏車）你決定。'])&&L.includes('（可昕的腳踏車鏈子掉了，她蹲在路邊研究。）')&&L.includes('……而且雙載違規。我自己牽。你陪我走。')&&L[L.length-1]==='品妤挑了一家一百二十元吃到飽的。阿勳吃了四碗白飯。'&&G.flags.E05_OPEN==='carry'&&G.flags.E05_DAY===D19,JSON.stringify(L.slice(4)));
     check('3. E05 做過了：9/20 不會再演',(()=>{ G.day=D20; G.hour=17.5; G.weekday=5; return !EVENTS.check(e5); })()); }
   { fresh(D19,15.2,'campus'); G.stage='econ'; picks=['河濱']; await EVENTS.run(p2); await settle(); const L=lines();
     check('4. 選河濱騎腳踏車：「韋綸的鏈子掉了兩次。」＋可昕「你那台要不要拿去修？我的也怪怪的，一起去。」、沒有接 E05；9/20 傍晚 E05 照自己的觸發',L.includes('韋綸的鏈子掉了兩次。')&&L.includes('你那台要不要拿去修？我的也怪怪的，一起去。')&&!G.flags.E05_OPEN&&(()=>{ G.day=D20; G.hour=17.5; G.weekday=5; return EVENTS.check(e5); })());

diff --git a/src/adv3d.js b/src/adv3d.js
@@ -85,5 +85,5 @@ const ADV = (function(){
   return A;
 })();
 // Event CG 登錄（檔案尚未提供；解鎖狀態存於 G.cg.unlocked）
-/* cg_econ_camp：使用者 01:2x 通過（BB-B d073885f，ART_APPROVED）；E15 經濟系宿營 CG 帶過（AA_154 A54）。cg_class_photo_y1：BCG-46 期末合照，使用者 01:2x「就用這張」（BB-B 3cdb2c60，ART_APPROVED）。（這一行要保持單行結尾是 };——tests 用正則讀）*/
+/* cg_econ_camp：使用者 01:2x 通過（BB-B d073885f，ART_APPROVED；01:37 換統一光線版 ddae6f9c）；E15 經濟系宿營 CG 帶過（AA_154 A54）。cg_class_photo_y1：BCG-46 期末合照，使用者 01:2x「就用這張」（BB-B 3cdb2c60，ART_APPROVED）。（這一行要保持單行結尾是 };——tests 用正則讀）*/
 const CG_REGISTRY={ cg_cafe_42pages_peishan:{file:'assets/cg/classmate_peishan/cg_cafe_42pages.webp',title:'今天念了 42 頁。你呢？'}, cg_hot_water_heroine05:{file:'assets/cg/heroine_05/cg_hot_water.webp',title:'好。今天就喝這個。'}, cg_two_tickets_heroine02:{file:'assets/cg/heroine_02/cg_two_tickets.webp',title:'早。……票我先買了。'}, cg_tour_guide_kexin:{file:'assets/cg/kexin/cg_tour_guide.webp',title:'我是今天的導遊'}, cg_birthday_tassel_kexin:{file:'assets/cg/kexin/cg_birthday_0424.webp',title:'風很大。你點，我擋。'}, cg_birthday_kexin:{file:'assets/cg/kexin/cg_dec3.webp',title:'你怎麼知道我幾點下課？'}, cg_own_drink_heroine02:{file:'assets/cg/heroine_02/cg_own_drink.webp',title:'妳自己喝什麼'}, cg_bug_fix_heroine04:{file:'assets/cg/heroine_04/cg_bug_fix.webp',title:'這個 bug 我下次修'}, cg_library_rain_heroine03:{file:'assets/cg/heroine_03/event_rain_library.webp',title:'雨天的總圖門口'}, cg_typhoon_noodles:{file:'assets/cg/kai/event_typhoon_noodles.webp',title:'颱風夜的泡麵'}, cg_midautumn_riverside:{file:'assets/cg/zhe/event_midautumn_riverside.webp',title:'中秋的河濱'}, cg_nye_rooftop:{file:'assets/cg/zhe/event_nye_rooftop.webp',title:'頂樓的跨年'}, cg_econ_camp:{file:'assets/cg/econ/cg_econ_camp.webp',title:'經濟系宿營'}, cg_class_photo_y1:{file:'assets/cg/class/cg_class_photo_y1.webp',title:'大一上，期末考完'} };

diff --git a/src/data/courses.js b/src/data/courses.js
@@ -33,7 +33,7 @@ const COURSES={
     // ---- 經濟系大一（2024 學年，v0；AA_106 2-2：經濟學原理在博雅、初等會計學在普通【已定案】，其他是遊戲安排【虛構】；AA_154 1-1 的停課照 calendar.js）----
     /* 課堂內容：BB 的 syllabus（Y0S1、Y0S2；經原、通識、會計有每週內容，其他是台詞池）。休學（Y0S2 第 6 週 E30，Y0_LEFT）以後 Y0S2 的課不排（classes3d.js 的 enrolled；法學緒論也不上）。
        老師：經原＝魏宏仁（AA_159，prof_wei 人物資料之後接）；其他不具名。法學緒論＝黃素芬（現有教授）*/
-    {id:'econ_principles_y0',name:'經濟學原理（上）',kind:'required',term:'Y0S1',prof:null,profName:'魏宏仁',room:'BOYA',slots:[{wd:1,block:'am'}],topics:['供給與需求','市場與價格','彈性','消費者','生產與成本','市場結構'],specials:[{w:2,title:'你放棄了什麼（機會成本）',story:true},{w:15,title:'囚犯困境',story:true},{w:16,title:'市場失靈',story:true}]},
+    {id:'econ_principles_y0',name:'經濟學原理（上）',kind:'required',term:'Y0S1',prof:null,profName:'魏宏仁',room:'BOYA',slots:[{wd:1,block:'am'}],topics:['供給與需求','市場與價格','彈性','消費者','生產與成本','市場結構'],specials:[{w:2,title:'你放棄了什麼（機會成本）',story:true},{w:14,title:'囚犯困境',story:true},{w:15,title:'市場失靈',story:true}]},
     {id:'acct_y0',name:'初等會計學（上）',kind:'required',term:'Y0S1',prof:null,profName:'會計老師',room:'PUTONG',slots:[{wd:4,block:'pm1'}],topics:['會計恆等式','分錄','試算表','財務報表'],specials:[{w:1,title:'宿舍是資產還是負債',story:true}]},
     {id:'calc_y0s1',name:'微積分',kind:'required',term:'Y0S1',prof:null,profName:'數學系老師',room:'GONGTONG',slots:[{wd:3,block:'am'}],topics:['極限','導數','積分']},
     {id:'chinese_y0',name:'大一國文',kind:'general',term:'Y0S1',prof:null,profName:'國文老師',room:'BOYA',slots:[{wd:2,block:'am'}],topics:['現代散文','古典詩文','寫作練習']},

diff --git a/tests/v0_e03_unit.js b/tests/v0_e03_unit.js
@@ -37,7 +37,9 @@ function itemFor(week){ for(let d=-400;d<0;d++){ const t=CALENDAR.termOf(d); if(
     check('2. 之後 e03Due 是 false',CLS.e03Due(G,w3)===false); }
   // 4. 第 1 週不算
   { const G=mkG(w1.day,w1.t0+0.05), GM=mkGM(G,0); check('4. 第 1 週不是 E03',CLS.e03Due(G,w1)===false); await CLS.attend(GM,w1,{inScene:true});
-    check('4. 第 1 週上完沒有記回答',!G.flags.Y0_B1_ANSWER); }
+    check('4. 第 1 週上完沒有記回答',!G.flags.Y0_B1_ANSWER);
+    check('4. 第 1 週：魏老師順口講「第一口珍奶……這叫邊際效用遞減。期中會考。」一次（AA_200 7-2，可昕下午迎新用）',GM.log.filter(t=>t.endsWith('第一口珍奶最好喝，第五口就普通了。這叫邊際效用遞減。期中會考。')).length===1,JSON.stringify(GM.log.slice(0,4))); }
+  { const G=mkG(w3.day,w3.t0+0.05), GM=mkGM(G,0); await CLS.attend(GM,w3,{inScene:true}); check('4. 其他週（第 2 週沒去、第 3 週補上的機會成本那堂）沒有珍奶那句',!GM.log.some(t=>t.includes('第一口珍奶'))); }
   // 法律系那幾年的課不受影響
   { const G={day:20,hour:8,stage:'law',flags:{},weekday:1}; const it=CLS.dayItems(G,20).find(x=>!x.exam); check('5. 法律系的課 e03Due 一律 false',!it||CLS.e03Due(G,it)===false); }
   console.log(fails?'FAILED '+fails:'ALL PASS'); process.exit(fails?1:0);

diff --git a/tools/story/apply_line_table.py b/tools/story/apply_line_table.py
@@ -19,7 +19,7 @@ def clean(t):
 auto,manual=[],[]
 for r in rows:
     old,new=clean(r['old']),clean(r['new'])
-    if new.startswith('（刪）') or old in ('—','-','') or '【' in new or '→' in new or '／' in old and len(old)<4:
+    if new.startswith('（刪') or old in ('—','-','') or '【' in new or '→' in new or '／' in new or '／' in old or '建議' in new:   # （刪；…）帶說明的刪除、／分成兩句、建議旁白：都要人工（2026-10-17 段 A 曾被當成台詞塞進去）
         manual.append((r,'刪除／新增／結構')); continue
     if re.search(r'（[^）]*(改|接|照|停在|刪|放|移|加)[^）]*）$',new) and not re.match(r'^（.*）$',new):
         manual.append((r,'改成欄有說明')); continue
